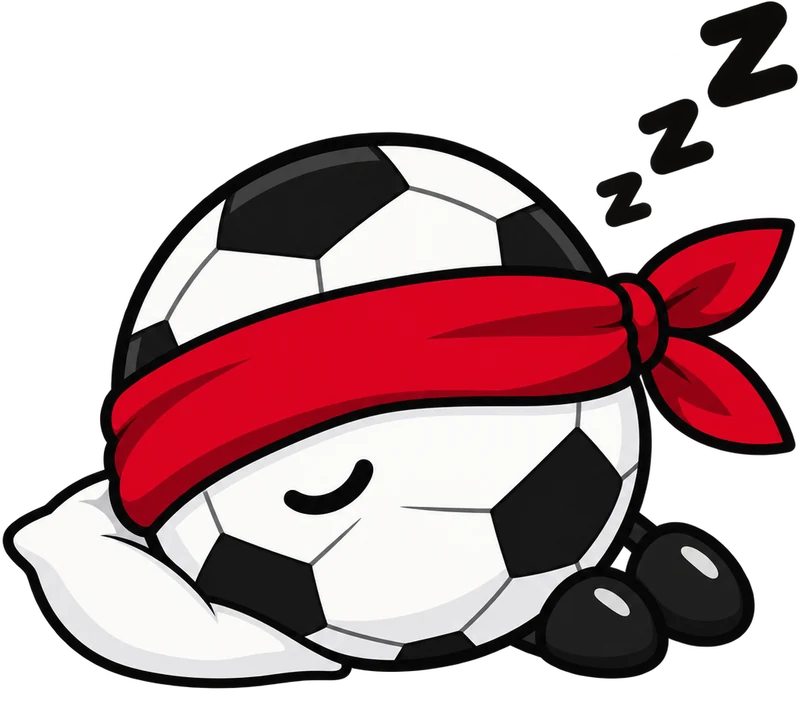
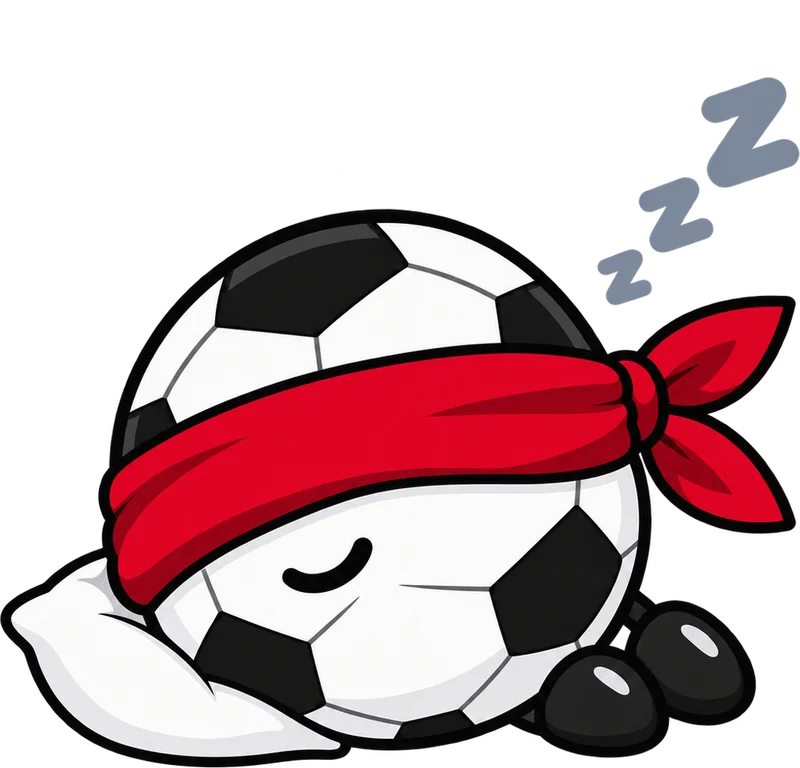
Rebuild the rest day around one sleeping mascot
Most days of a season have no fixtures, so the empty state is a page the
user sees often. It was a mascot plus a headline plus a "Next matchday"
button; it is now the art and the words "Rest Day", nothing else. The
button was redundant — a rest day only ever renders for today, so the
next matchday is already sitting one step to the right in the carousel
directly above it.

The three poses are redrawn with slate #7D8A9E z's. In black they scored
1.07:1 against the page and simply vanished: everywhere else the
mascot's outline sits on a white ball panel, and the z's are the one
element with nothing behind them. Slate puts them at 5.4:1.

Re-exported to a common 800x768 canvas, normalised on width and
bottom-aligned, so every pose shares a ball size and a resting line and
the caption lands on the same spot each day. Cropping honours an
alpha>10 floor because the sources carry a near-invisible export halo
that any-alpha cropping mistakes for art. Pose selection moves from a
hash of the date to the calendar day number, which cycles 1 -> 2 -> 3 so
neighbouring rest days never repeat. Full-size sources now live in
docs/assets alongside the standing pose.

Sizing is the part that took the work. All three breakpoints now size the
art off the height actually left over rather than a flat fraction of the
viewport, because a fraction looks right at one height and overflows at
another — the content grows past the min-height instead of being bounded
[…]

diff --git a/src/App.css b/src/App.css
@@ -839,100 +839,119 @@
   font-size: calc(var(--day-flag-size) * 0.4);
 }
 
-/* Rest day — see RestDay in Rail.tsx. Almost empty: mascot, one line, a
-   text jump. Quiet on purpose, not broken. */
+/* Rest day — see RestDay in Rail.tsx. The whole page is the napping mascot
+   with one word under it. Quiet on purpose, not broken. */
 .rest-day {
   display: flex;
   flex-direction: column;
   align-items: center;
   justify-content: center;
-  gap: 14px;
-  /* Sits in the space below the carousel rather than hugging it, so a rest
-     day reads as a composed page instead of a stub under the day nav. The
-     carousel itself never moves — see the comment on .day-rail. */
-  min-height: min(46vh, 420px);
-  padding: 18px 20px 48px;
+  /* Grows into whatever is left between the carousel and the footer, so the
+     mascot lands in the middle of the empty half of the page instead of
+     hanging off the day nav. Only this block stretches — the carousel above
+     it never moves, see the comment on .day-rail. The 396px is measured:
+     everything this box shares the viewport with (header, day nav and its
+     margins, page padding, footer) plus a few px of slack, so the page fills
+     the window without scrolling. The floor covers short windows. */
+  min-height: max(260px, calc(100vh - 396px));
+  padding: 16px 20px 24px;
   text-align: center;
+  /* A pool of light under the mascot, so it reads as placed on a surface
+     rather than pasted on a void — the same pale blue the body canvas uses,
+     centred on the art rather than the box so it doesn't halo the caption.
+     This is the whole reason the page stops looking switched-off.
+     The radii are proportional with a cap: at a fixed px size the ellipse is
+     wider than a phone's box, gets clipped at the edges, and the pool reads as
+     a grey rectangle instead of light. Percentages keep it fading out inside
+     the box on any screen; the px caps stop it ballooning on a desktop. */
+  background: radial-gradient(
+    min(70%, 700px) min(60%, 500px) at 50% 42%,
+    rgba(148, 178, 224, 0.05),
+    transparent 70%
+  );
 }
 
+/* One fixed box for all three poses. The poses are drawn at different
+   heights (pose 1's z's rise higher), so the export normalises them on width
+   and bottom-aligns them onto one 800x768 canvas — same ball size, same
+   resting line, whichever pose comes up. This box matches that canvas, so
+   `contain` never has to letterbox and the word underneath lands on the same
+   line every day. No animation: a rest day should look asleep, not idling.
+   The third term is the one that keeps the page from scrolling: 474px is
+   everything the art shares the window with — the 396px of chrome above and
+   below plus this box's own padding, caption and the gap over it — so the
+   art can only ever take what is genuinely left. A flat fraction of vh looked
+   fine at 900px and overflowed by 9px at 661px, because the content grew past
+   the min-height instead of being bounded by it. */
 .rest-day-mascot {
-  width: min(228px, 56vw);
+  width: min(258px, 54vw, calc((100vh - 474px) * 1.042));
+  aspect-ratio: 25 / 24;
   height: auto;
+  object-fit: contain;
   display: block;
   pointer-events: none;
   user-select: none;
-  animation: rest-day-breathe 4.8s ease-in-out infinite;
 }
 
-@keyframes rest-day-breathe {
-  0%,
-  100% {
-    transform: translateY(0);
-  }
-  50% {
-    transform: translateY(7px);
-  }
-}
-
-@media (prefers-reduced-motion: reduce) {
-  .rest-day-mascot {
-    animation: none;
-  }
-}
-
-.rest-day-title {
-  font-size: 15px;
-  font-weight: 500;
-  letter-spacing: -0.01em;
-  color: var(--muted);
-}
-
-.rest-day-sub {
-  font-size: 13px;
-  color: var(--muted);
-}
-
-/* A text control, not a chip. The date is the only weight; hover just
-   brightens and nudges the chevron. */
-.rest-day-next {
-  display: inline-flex;
-  align-items: center;
-  gap: 8px;
-  margin-top: 2px;
-  border: 0;
-  background: transparent;
-  color: var(--muted);
-  font-size: 13.5px;
-  font-weight: 500;
-  padding: 4px 2px;
-  cursor: pointer;
-  transition: color 0.18s ease;
-}
-
-.rest-day-next:hover {
-  color: var(--text);
-}
-
-.rest-day-next:active {
-  color: var(--text-h);
-}
-
-.rest-day-next-date {
+/* A caption under the artwork, not a heading over a page: small, tracked,
+   quiet. The mascot is the thing you look at; this only names it. */
+.rest-day-label {
+  margin: 20px 0 0;
+  font-size: 12px;
   font-weight: 600;
-  color: var(--text-h);
-  letter-spacing: -0.008em;
-}
-
-.rest-day-next svg {
+  letter-spacing: 0.16em;
+  text-transform: uppercase;
   color: var(--muted);
-  transition:
-    transform 0.2s cubic-bezier(0.32, 0.72, 0, 1),
-    color 0.18s ease;
 }
 
-.rest-day-next:hover svg {
-  color: var(--text-h);
-  transform: translateX(2px);
+/* Short windows — landscape phones, small laptops, half-height browser
+   windows. The chrome around the carousel is trimmed and the art is sized
+   off the height that is actually left, so the page fits without scrolling
+   all the way down to a 844x390 landscape phone.
+
+   The 660px cut-off is not arbitrary: below it the default rule's 260px
+   floor on .rest-day is taller than the space left over, so anything in the
+   600-655px band would scroll. This branch has to start above that band. */
+@media (max-height: 660px) {
+  .app-main {
+    padding-top: 10px;
+    padding-bottom: 14px;
+  }
+
+  .day-rail {
+    margin-top: 0;
+    margin-bottom: 10px;
+  }
+
+  .day-carousel {
+    margin-bottom: 8px;
+  }
+
+  /* Deliberately no .day-toolbar override here. The row is empty on a rest
+     day and collapsing it would buy 28px of art, but the "back to today"
+     button that lives in it is 28px tall, so the row would grow the moment
+     you navigated to a matchday and shove the carousel down with it. The
+     carousel does not move — see the comment on .day-rail. */
+
+  .rest-day {
+    min-height: 0;
+    padding: 2px 16px 8px;
+  }
+
+  /* Sized off the height actually left over rather than a flat fraction of
+     the viewport. 291px is everything this branch shares the window with —
+     header, toolbar row, carousel and its margin, page padding, footer, and
+     the caption under the art. So the art takes the whole remainder: it
+     shrinks to ~100px on a 390px-tall landscape phone and is back at full
+     size by the time the window is 600px tall. dvh, not vh, because a phone
+     in landscape is exactly where the two differ. */
+  .rest-day-mascot {
+    width: min(258px, 38vw, calc((100dvh - 291px) * 1.042));
+  }
+
+  .rest-day-label {
+    margin-top: 6px;
+  }
 }
 
 /* ============ the fabric layer ============ */
@@ -4611,6 +4630,29 @@
 
   .day-rail {
     min-height: calc(100dvh - 120px);
+  }
+
+  /* A rest day has nothing to fill a screen-height rail with, so it doesn't
+     reserve one — otherwise the page scrolls down into 200px of nothing. */
+  .day-rail.is-rest-day {
+    min-height: 0;
+  }
+
+  /* Same budget arithmetic as the desktop rule, with the phone's numbers:
+     444px is the header (which wraps to three rows here), the day nav, the
+     page padding and the footer. dvh throughout, because this is exactly
+     where a browser's disappearing toolbar changes the answer. */
+  .rest-day {
+    min-height: max(160px, calc(100dvh - 460px));
+    padding: 8px 16px 32px;
+  }
+
+  /* The outer max is a floor, and it is allowed to lose. On a 568px-tall
+     phone the budget works out to a 46px mascot, which is not a rest day,
+     it's a bullet point. Below about 620px the art holds at 120px and the
+     page scrolls instead — the right trade on a screen that small. */
+  .rest-day-mascot {
+    width: max(120px, min(256px, 66vw, calc((100dvh - 522px) * 1.042)));
   }
 
   .day-grid {

diff --git a/src/components/Rail.tsx b/src/components/Rail.tsx
@@ -496,9 +496,13 @@ function DaySwitcher({
     }
   }
 
+  const isRestDay = dayEntries.length === 0
+
   return (
     <section
-      className={`day-rail ${isSwipeTransitioning ? 'is-swipe-transitioning' : ''}`.trim()}
+      className={`day-rail ${isSwipeTransitioning ? 'is-swipe-transitioning' : ''} ${
+        isRestDay ? 'is-rest-day' : ''
+      }`.trim()}
       aria-label="Matchday"
       onClickCapture={onSectionClickCapture}
     >
@@ -564,19 +568,14 @@ function DaySwitcher({
         </button>
       </div>
 
-      {dayEntries.length > 0 ? (
+      {!isRestDay ? (
         <div className="day-grid" ref={gridRef} style={gridStyle}>
           {dayEntries.map((e) => (
             <PreviewCard key={e.target.match.id} t={t} entry={e} progress={progress} onOpen={onOpen} />
           ))}
         </div>
       ) : (
-        <RestDay
-          date={date}
-          isToday={date === today}
-          nextDate={dates[idx + 1]}
-          onJump={() => scrollToIndex(idx + 1, true)}
-        />
+        <RestDay date={date} />
       )}
     </section>
   )
@@ -588,62 +587,43 @@ const SLEEPING_MASCOTS = [
   new URL('../assets/mascot-sleeping-3.webp', import.meta.url).href,
 ] as const
 
-/** Stable per calendar day so the pose doesn't flicker, but rest days vary. */
+/**
+ * Daily-deterministic pose, not a roll of the dice.
+ *
+ * Random-on-load is the cheap-widget pattern: the art reshuffles every
+ * refresh, which fights the stillness the page is going for. Indexing by the
+ * calendar day cycles 1 → 2 → 3, so a given date always looks the same and
+ * two rest days in a row never show the same pose.
+ */
 function sleepingMascotFor(date: string): string {
-  let h = 0
-  for (let i = 0; i < date.length; i++) h = (h * 31 + date.charCodeAt(i)) | 0
-  return SLEEPING_MASCOTS[Math.abs(h) % SLEEPING_MASCOTS.length]
+  const [year, month, day] = date.split('-').map(Number)
+  const dayNumber = Math.floor(Date.UTC(year, month - 1, day) / 86_400_000)
+  const n = SLEEPING_MASCOTS.length
+  return SLEEPING_MASCOTS[((dayNumber % n) + n) % n]
 }
 
 /**
  * A day with no fixtures.
  *
- * This is a normal, frequent state — most days of a league season are rest
- * days — so it gets a composed page rather than an error box. The page is
- * almost empty: a sleeping mascot, one line of copy, and a text jump to the
- * next matchday. Which pose you get is hashed from the date, so a given rest
- * day always shows the same one and neighbouring empty days feel different.
+ * This is a normal, frequent state — most days of a season are rest days — so
+ * it gets a composed page rather than an error box. The whole page is the
+ * napping mascot and the words under it; there is deliberately no "jump to
+ * the next matchday" control, because the carousel directly above already
+ * has the next matchday sitting one step to the right (a rest day only ever
+ * renders for today, so `dates[idx + 1]` *is* that neighbour).
  */
-function RestDay({
-  date,
-  isToday,
-  nextDate,
-  onJump,
-}: {
-  date: string
-  isToday: boolean
-  nextDate: string | undefined
-  onJump: () => void
-}) {
+function RestDay({ date }: { date: string }) {
   return (
     <div className="rest-day">
       <img
         className="rest-day-mascot"
         src={sleepingMascotFor(date)}
         alt=""
-        width={240}
-        height={216}
+        width={800}
+        height={768}
         draggable={false}
       />
-      <p className="rest-day-title">No matches {isToday ? 'today' : 'this day'}</p>
-      {nextDate ? (
-        <button type="button" className="rest-day-next" onClick={onJump}>
-          Next matchday
-          <span className="rest-day-next-date">{formatWeekdayLong(nextDate)}</span>
-          <svg viewBox="0 0 12 12" width="12" height="12" aria-hidden="true">
-            <path
-              d="M4.4 2.5 7.9 6l-3.5 3.5"
-              fill="none"
-              stroke="currentColor"
-              strokeWidth="1.6"
-              strokeLinecap="round"
-              strokeLinejoin="round"
-            />
-          </svg>
-        </button>
-      ) : (
-        <p className="rest-day-sub">That's the last matchday on the calendar.</p>
-      )}
+      <p className="rest-day-label">Rest Day</p>
     </div>
   )
 }

diff --git a/src/index.css b/src/index.css
@@ -98,7 +98,7 @@ body {
   background:
     radial-gradient(1100px 500px at 16% -160px, rgba(61, 220, 132, 0.07), transparent 70%),
     radial-gradient(900px 460px at 88% -180px, rgba(82, 140, 255, 0.06), transparent 70%),
-    radial-gradient(1200px 700px at 50% 46%, rgba(148, 178, 224, 0.035), transparent 72%),
+    radial-gradient(1200px 700px at 50% 46%, rgba(148, 178, 224, 0.06), transparent 72%),
     var(--bg);
   background-attachment: fixed;
 }

diff --git a/docs/assets/mascot.md b/docs/assets/mascot.md
@@ -9,8 +9,38 @@ largest place it is drawn (the 56px onboarding badge).
 
 Used as the header mark, the onboarding badge, and the favicon.
 
-Sleeping poses (rest-day empty state, cycled by calendar date):
+## Sleeping poses (rest-day empty state)
 
-- [`src/assets/mascot-sleeping-1.webp`](../../src/assets/mascot-sleeping-1.webp)
-- [`src/assets/mascot-sleeping-2.webp`](../../src/assets/mascot-sleeping-2.webp)
-- [`src/assets/mascot-sleeping-3.webp`](../../src/assets/mascot-sleeping-3.webp)
+Full-size sources, 1254px squares, same rule as above — they live here and are
+never bundled:
+
+- [`mascot-sleeping-1.png`](mascot-sleeping-1.png)
+- [`mascot-sleeping-2.png`](mascot-sleeping-2.png)
+- [`mascot-sleeping-3.png`](mascot-sleeping-3.png)
+
+The pose is picked from the calendar date — consecutive days cycle 1 → 2 → 3,
+so a rest day never reshuffles on refresh and neighbouring rest days never show
+the same one.
+
+The z's are drawn in slate `#7D8A9E`, not the near-black the rest of the outline
+uses. Everywhere else the mascot's black line sits on a white ball panel; the
+z's are the one element with nothing behind them, so in black they scored 1.07:1
+against the page and simply vanished. Slate puts them at 5.4:1. Keep them out of
+`--accent` green — in this app green means "you can watch this".
+
+### Re-exporting
+
+`src/assets/mascot-sleeping-*.webp` are 800×768 each, and the app draws them in
+one fixed `25 / 24` box with `object-fit: contain`, so the footprint and the
+caption under them stay put whichever pose comes up. Two things make that work,
+and both need honouring if the art is ever re-exported:
+
+- **Crop on alpha > 10, not alpha > 0.** The sources carry a near-invisible
+  export halo (alpha 1–10) well outside the art. `Image.getbbox()` sees it, so
+  cropping on any-alpha gives three wildly different footprints (0.94 / 1.02 /
+  1.15) instead of the true ones.
+- **Normalise on width, then bottom-align onto one canvas.** The poses are
+  drawn at different heights (pose 1's z's rise higher). Matching widths makes
+  the *ball* the same size in all three; bottom-aligning puts the sleeping
+  mascot on the same resting line. Normalising on height or area would do
+  neither.
